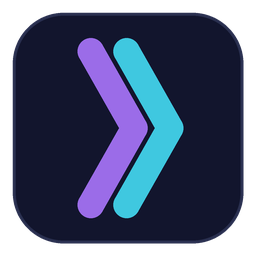
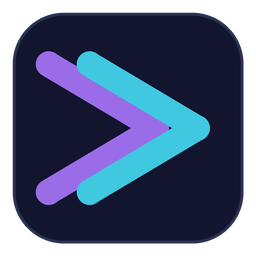
superwarp-gui v0.7.1
- The header banner's "»" is now a **painted multicolor double-chevron** (violet
  back + azure front) instead of a single azure text glyph, matching the app icon.
  (A text glyph can't be two-toned, so it's drawn as geometry.)
- **Sharpened the chevron angle** on both the icon and the banner to a tighter
  ~60 degrees -- the previous icon angle was much blunter (~120) than the banner.
  Icon regenerated (`assets/icon.png` / `.ico`); both now share one look.

Claude-Session: https://claude.ai/code/session_01Sosb29T7qYzJLMvQVK8jJz

Changed region(s): [[0.125, 0.125, 0.6562, 0.875], [0.6562, 0.375, 0.8438, 0.625]]

diff --git a/src/main.rs b/src/main.rs
@@ -82,7 +82,7 @@ impl Dispatch {
     }
 }
 
-const GUI_VERSION: &str = "0.7.0";
+const GUI_VERSION: &str = "0.7.1";
 
 // =========================================================================
 // Protocol types (match superwarp.lua's JSON exactly)
@@ -655,7 +655,34 @@ fn setup_aether_theme(ctx: &egui::Context) {
 impl WarpApp {
     fn render_header(&mut self, ui: &mut egui::Ui) {
         ui.horizontal(|ui| {
-            ui.label(RichText::new("»").font(FontId::monospace(16.0)).color(AZURE));
+            // painted multicolor double-chevron (matches the app icon): violet
+            // back + azure front, sharp ~60-degree angle. A text "»" can't be
+            // two-toned, so we paint the geometry directly.
+            {
+                let h = 18.0_f32;
+                let (rect, _) =
+                    ui.allocate_exact_size(Vec2::new(h * 1.15, h), egui::Sense::hover());
+                let p = ui.painter();
+                let cy = rect.center().y;
+                let half = 0.30 * h; // vertical half-span
+                let dx = 0.50 * h; // arm reach; larger relative to half = sharper
+                let sw = (0.17 * h).max(2.0);
+                let gap = 0.32 * h; // horizontal offset between the two chevrons
+                let lx0 = rect.left() + sw * 0.5;
+                let mut chev = |lx: f32, color: Color32| {
+                    let top = egui::pos2(lx, cy - half);
+                    let apex = egui::pos2(lx + dx, cy);
+                    let bot = egui::pos2(lx, cy + half);
+                    p.line_segment([top, apex], Stroke::new(sw, color));
+                    p.line_segment([apex, bot], Stroke::new(sw, color));
+                    let cap = sw * 0.5;
+                    p.circle_filled(top, cap, color);
+                    p.circle_filled(apex, cap, color);
+                    p.circle_filled(bot, cap, color);
+                };
+                chev(lx0, VIOLET);
+                chev(lx0 + gap, AZURE);
+            }
             ui.label(
                 RichText::new("superwarp")
                     .font(FontId::monospace(16.0))

diff --git a/TRANSCRIPT.md b/TRANSCRIPT.md
@@ -169,3 +169,15 @@ to a warning if no resource compiler. (2) runtime with_icon via
 eframe::icon_data::from_png_bytes(include_bytes!) -> title-bar/taskbar icon, guarded.
 v0.7.0. Flagged: can't cargo-build here; winresource + from_png_bytes are the items
 to confirm on Eric's machine.
+
+---
+
+## Session (GUI v0.7.1) -- multicolor banner chevron + sharper icon
+
+**Eric:** [screenshot] Prefers the banner chevron's angle over the icon's "weak"
+(blunt) angle; likes the color scheme; wants the banner chevron multicolor like the icon.
+
+**Claude:** The banner "»" was a single azure text glyph (can't be two-toned), so
+replaced it with painted geometry: a violet-back + azure-front double-chevron drawn
+via line_segment + round caps, sharp ~60deg. Also regenerated the icon with a matching
+sharp angle (was ~120deg/blunt; dx/half ratio raised). Both now share the look. v0.7.1.

diff --git a/CHANGELOG.md b/CHANGELOG.md
@@ -5,6 +5,15 @@ v1.3.1). Development began at Stage 4 of the superwarp fork.
 
 ---
 
+## [0.7.1] -- multicolor banner chevron + sharper icon angle
+
+- The header banner's "»" is now a **painted multicolor double-chevron** (violet
+  back + azure front) instead of a single azure text glyph, matching the app icon.
+  (A text glyph can't be two-toned, so it's drawn as geometry.)
+- **Sharpened the chevron angle** on both the icon and the banner to a tighter
+  ~60 degrees -- the previous icon angle was much blunter (~120) than the banner.
+  Icon regenerated (`assets/icon.png` / `.ico`); both now share one look.
+
 ## [0.7.0] -- app icon + authorship metadata
 
 The executable now carries the superwarp chevron icon and proper file identity
